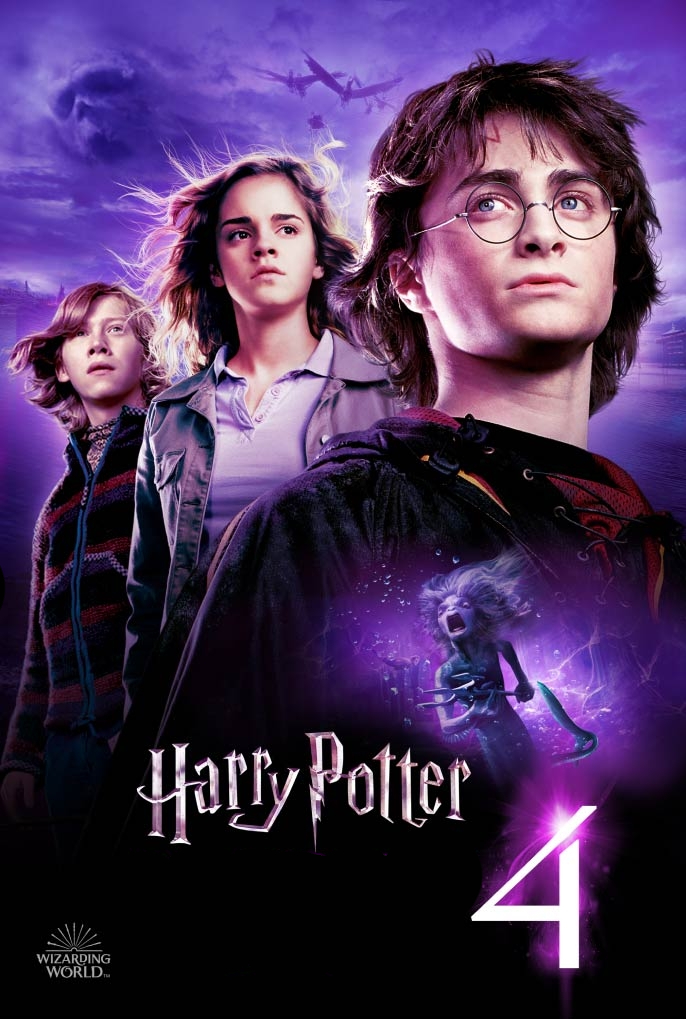
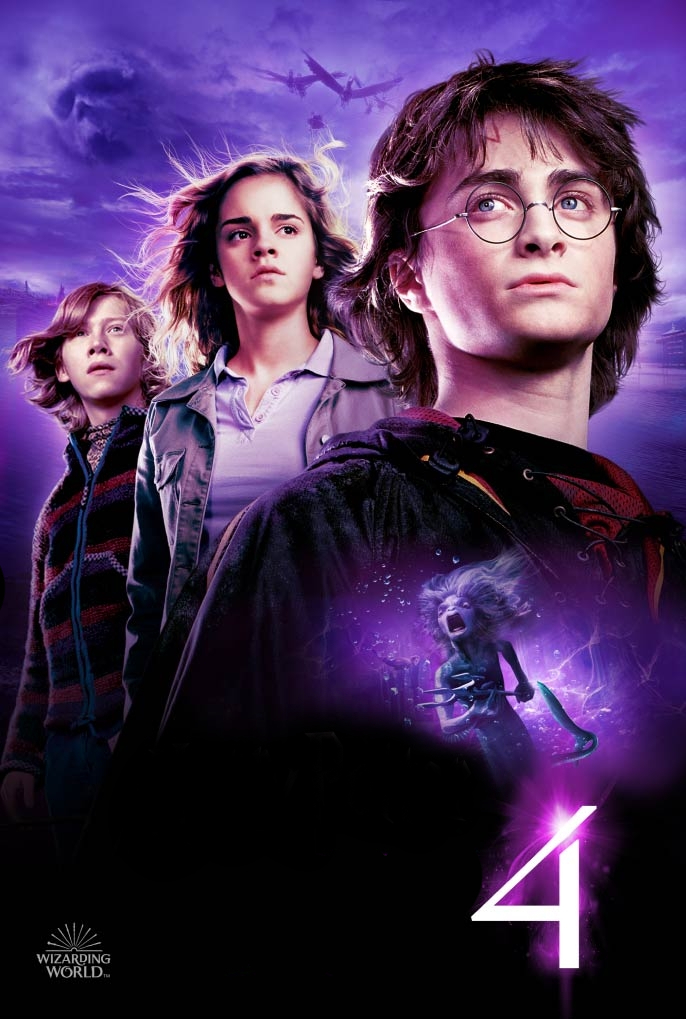
Update the images of movies, and add the screenshot for the whole application

Changed region(s): [[0.1837, 0.6997, 0.7347, 0.8518]]

diff --git a/README.md b/README.md
@@ -1,4 +1,23 @@
-# pictures-and-potions-of-harry-potter-films
+# Pictures-and-Potions-of-Harry-Potter-Films
+
+## About
+
+Pictures & Potions of Harry Potter Films is a delightful gallery showcasing the captivating posters from the first four movies of the beloved Harry Potter series. Click on any poster to reveal an enchanting, larger view and discover the full name of the movie. Immerse yourself in the magic of Harry Potter's world through this interactive tribute.
+
+![screenshot](./app_screenshot.png)
+
+*PS: After being inspired by Wes Bos' JAVASCRIPT30 course, I decided to follow it and build the Pictures & Potions of Harry Potter Films to keep my hands dirty with JavaScript.*
+
+## Table of contents
+
+- [ Features ](#features)
+- [ Demo ](#demo)
+- [ Installation ](#installation)
+- [ Usage ](#usage)
+- [ Contributing ](#contributing)
+- [ License ](#license)
+
+
 
 <a name="license"></a>
 
@@ -10,4 +29,4 @@ This project is [MIT](./LICENSE) licensed.
 
 Give a ⭐ if you like this project!
 
-<!-- git the images from Wizarding world website -->
+<!-- git the images from Wizarding World website -->
